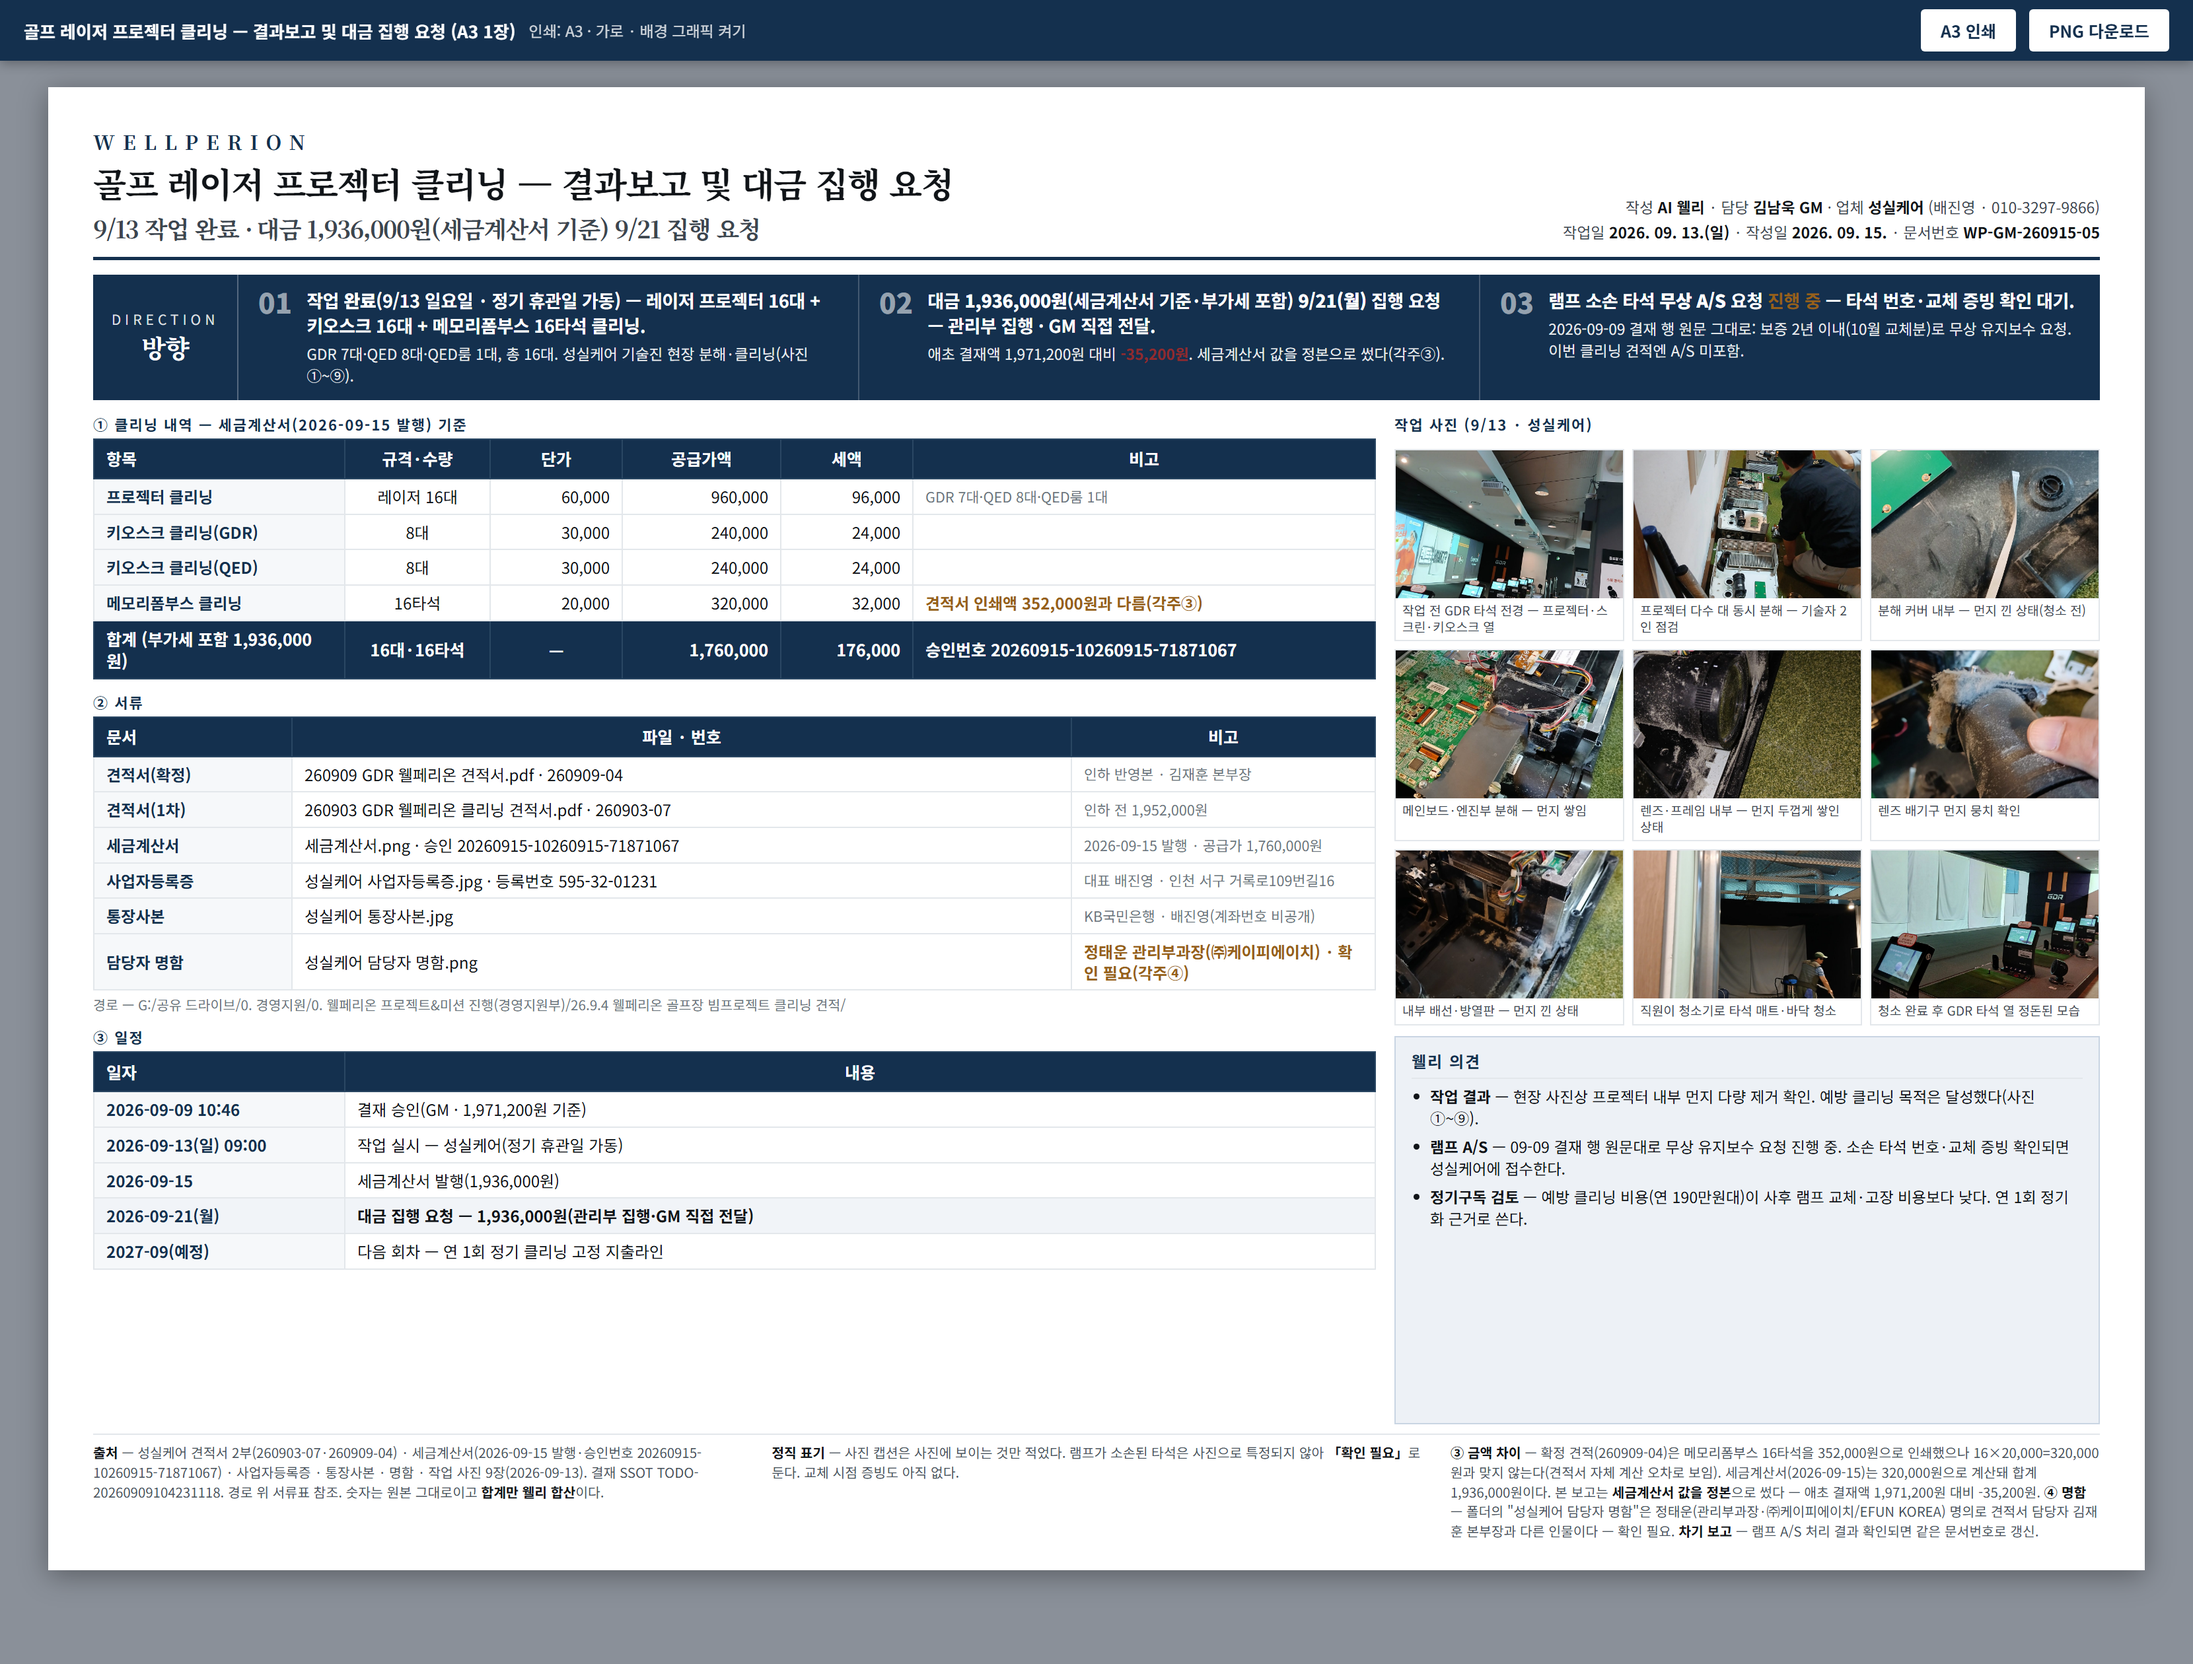
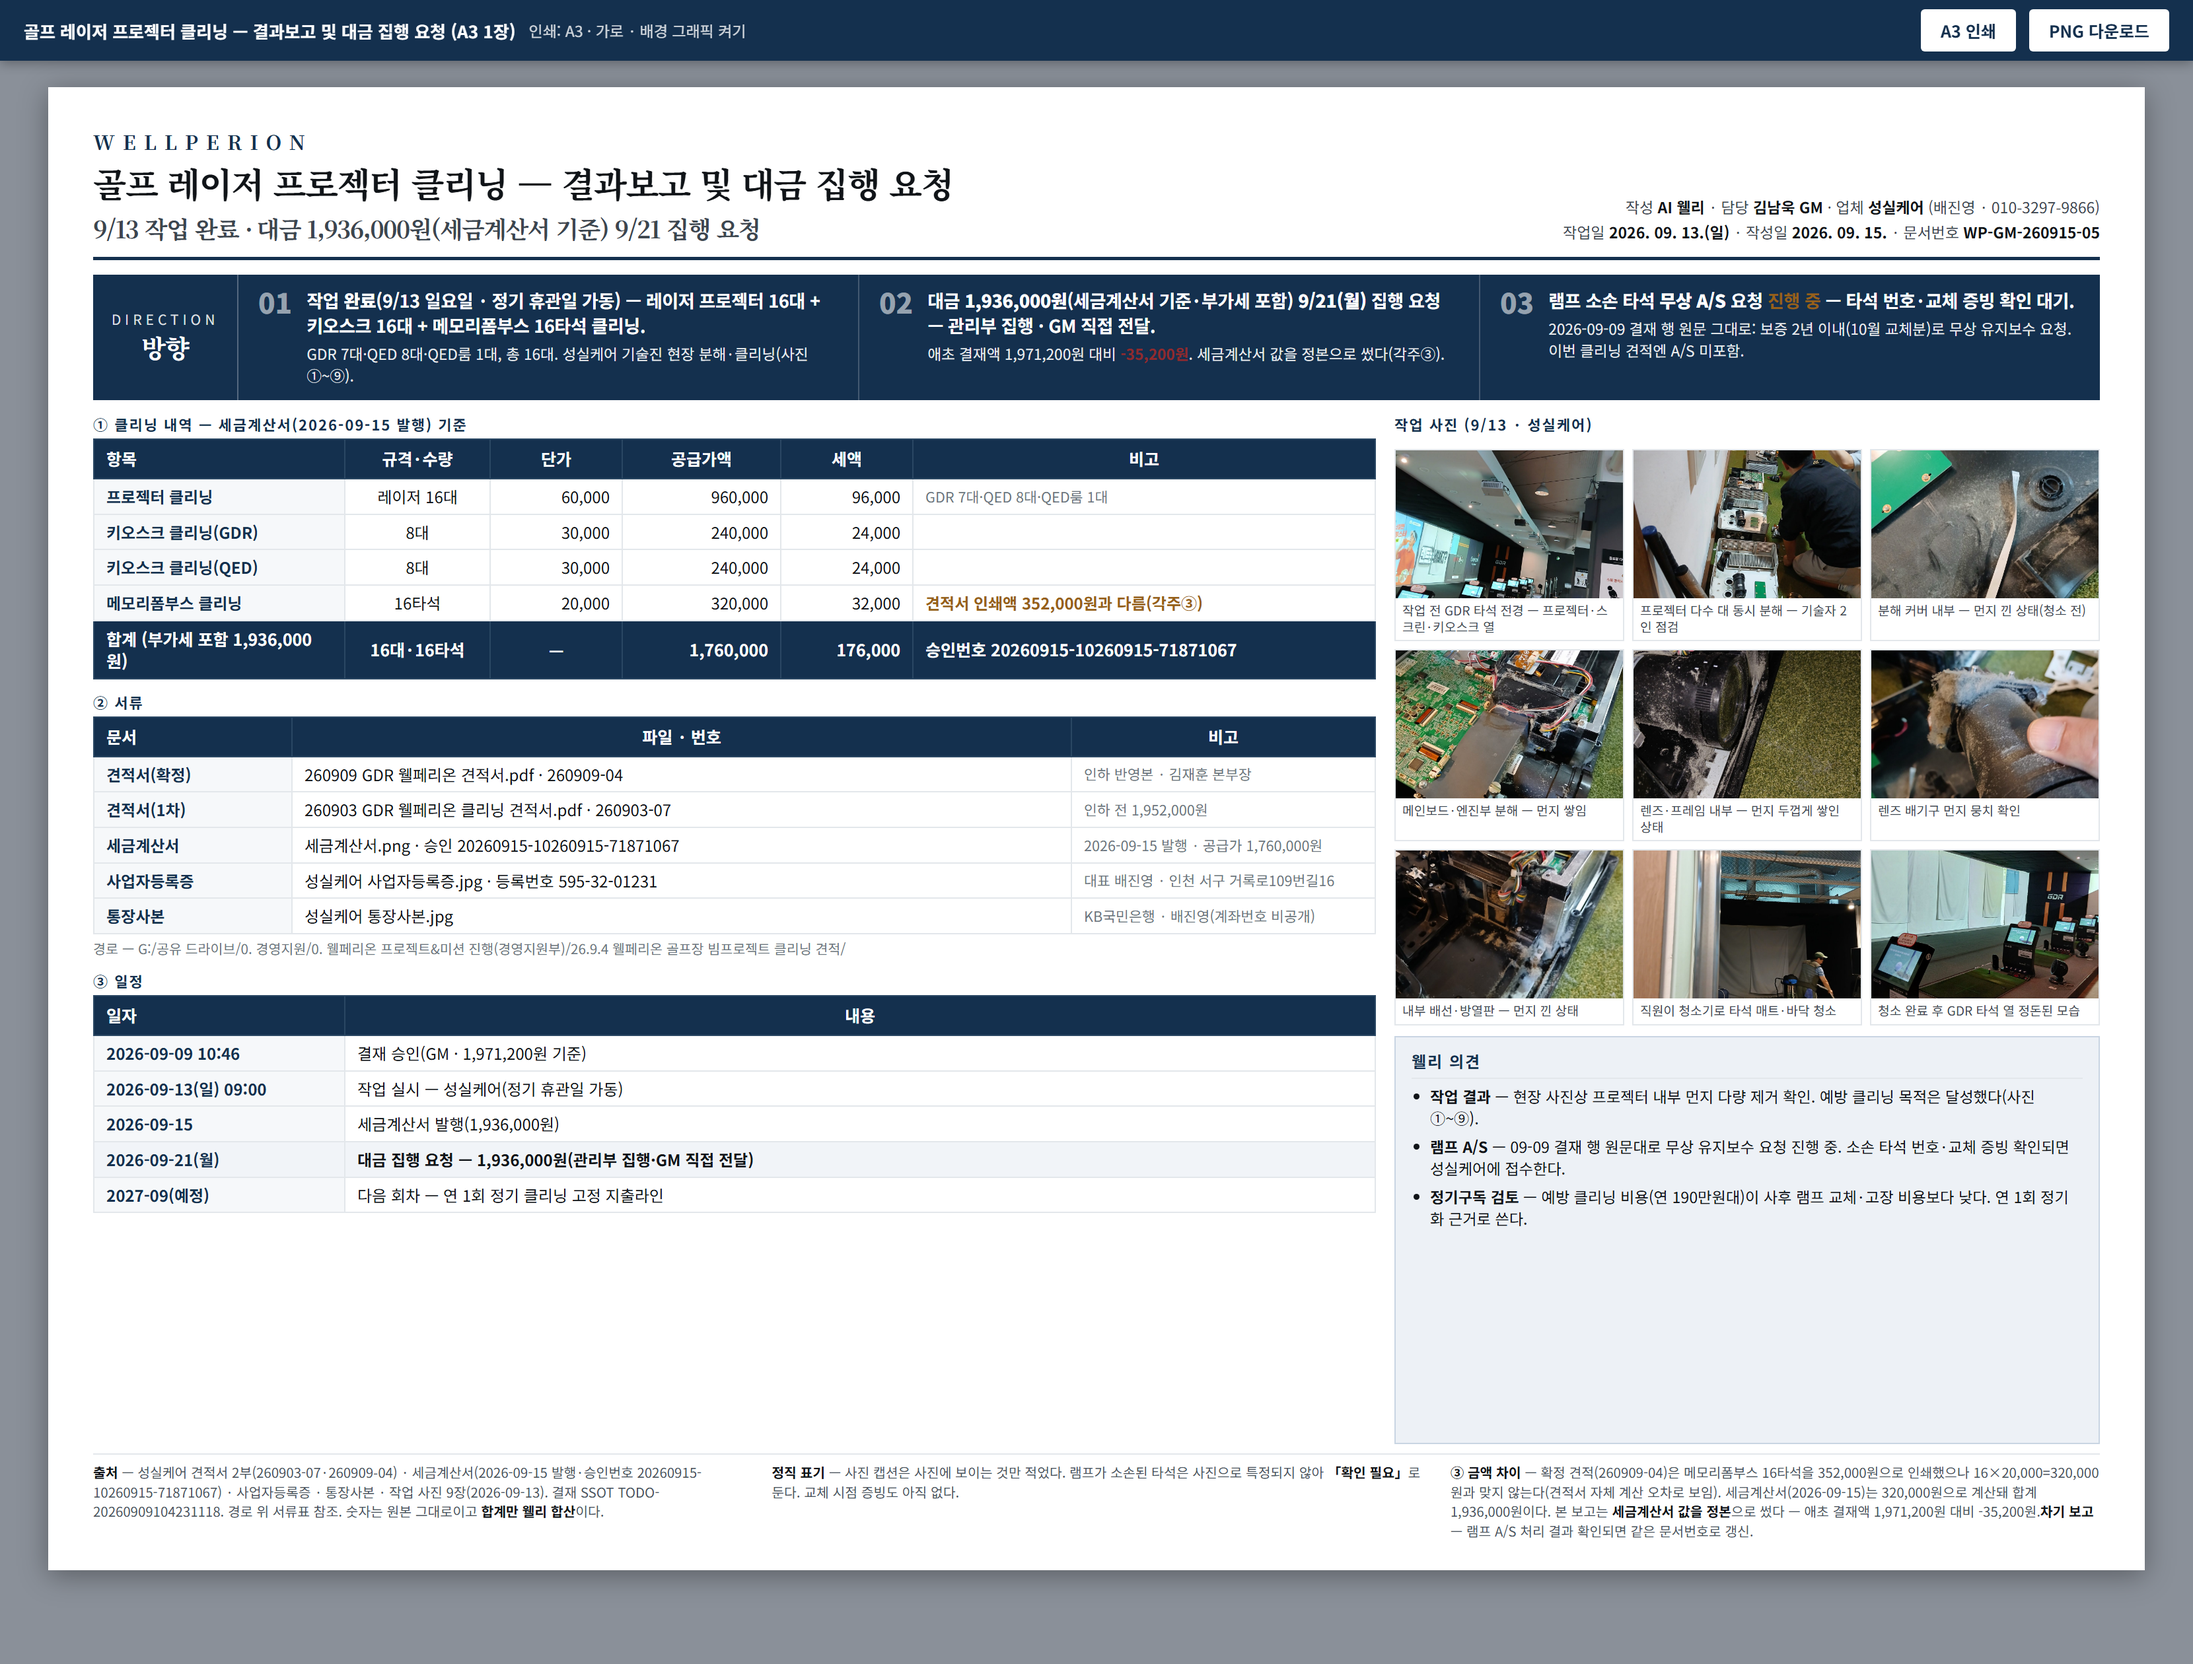
[웰리] 클리닝 결과보고 A3 — 명함 줄 제거 · 전사일정 9/21 집행액 1,936,000 정정 (GM 09-15)

Changed region(s): [[0.031, 0.5571, 0.6515, 0.7738], [0.3413, 0.8667, 0.9617, 0.9286], [0.031, 0.8667, 0.3102, 0.9286]]

diff --git a/3. 웰페리온 가이드/coo/chairman/260915_골프_빔프로젝터_클리닝_결과보고_A3.html b/3. 웰페리온 가이드/coo/chairman/260915_골프_빔프로젝터_클리닝_결과보고_A3.html
@@ -125,7 +125,6 @@
             <tr><td class="k">세금계산서</td><td>세금계산서.png · 승인 20260915-10260915-71871067</td><td class="dim">2026-09-15 발행 · 공급가 1,760,000원</td></tr>
             <tr><td class="k">사업자등록증</td><td>성실케어 사업자등록증.jpg · 등록번호 595-32-01231</td><td class="dim">대표 배진영 · 인천 서구 거록로109번길16</td></tr>
             <tr><td class="k">통장사본</td><td>성실케어 통장사본.jpg</td><td class="dim">KB국민은행 · 배진영(계좌번호 비공개)</td></tr>
-            <tr><td class="k">담당자 명함</td><td>성실케어 담당자 명함.png</td><td class="warn">정태운 관리부과장(㈜케이피에이치) · 확인 필요(각주④)</td></tr>
           </tbody>
         </table>
         <div class="dim" style="margin-top:3px;font-size:10.3px">경로 — G:/공유 드라이브/0. 경영지원/0. 웰페리온 프로젝트&amp;미션 진행(경영지원부)/26.9.4 웰페리온 골프장 빔프로젝트 클리닝 견적/</div>
@@ -170,9 +169,9 @@
   </div>
 
   <div class="foot">
-    <div><b>출처</b> — 성실케어 견적서 2부(260903-07·260909-04) · 세금계산서(2026-09-15 발행·승인번호 20260915-10260915-71871067) · 사업자등록증 · 통장사본 · 명함 · 작업 사진 9장(2026-09-13). 결재 SSOT TODO-20260909104231118. 경로 위 서류표 참조. 숫자는 원본 그대로이고 <b>합계만 웰리 합산</b>이다.</div>
+    <div><b>출처</b> — 성실케어 견적서 2부(260903-07·260909-04) · 세금계산서(2026-09-15 발행·승인번호 20260915-10260915-71871067) · 사업자등록증 · 통장사본 · 작업 사진 9장(2026-09-13). 결재 SSOT TODO-20260909104231118. 경로 위 서류표 참조. 숫자는 원본 그대로이고 <b>합계만 웰리 합산</b>이다.</div>
     <div><b>정직 표기</b> — 사진 캡션은 사진에 보이는 것만 적었다. 램프가 소손된 타석은 사진으로 특정되지 않아 <b>「확인 필요」</b>로 둔다. 교체 시점 증빙도 아직 없다.</div>
-    <div><b>③ 금액 차이</b> — 확정 견적(260909-04)은 메모리폼부스 16타석을 352,000원으로 인쇄했으나 16×20,000=320,000원과 맞지 않는다(견적서 자체 계산 오차로 보임). 세금계산서(2026-09-15)는 320,000원으로 계산돼 합계 1,936,000원이다. 본 보고는 <b>세금계산서 값을 정본</b>으로 썼다 — 애초 결재액 1,971,200원 대비 -35,200원. <b>④ 명함</b> — 폴더의 "성실케어 담당자 명함"은 정태운(관리부과장·㈜케이피에이치/EFUN KOREA) 명의로 견적서 담당자 김재훈 본부장과 다른 인물이다 — 확인 필요. <b>차기 보고</b> — 램프 A/S 처리 결과 확인되면 같은 문서번호로 갱신.</div>
+    <div><b>③ 금액 차이</b> — 확정 견적(260909-04)은 메모리폼부스 16타석을 352,000원으로 인쇄했으나 16×20,000=320,000원과 맞지 않는다(견적서 자체 계산 오차로 보임). 세금계산서(2026-09-15)는 320,000원으로 계산돼 합계 1,936,000원이다. 본 보고는 <b>세금계산서 값을 정본</b>으로 썼다 — 애초 결재액 1,971,200원 대비 -35,200원.<b>차기 보고</b> — 램프 A/S 처리 결과 확인되면 같은 문서번호로 갱신.</div>
   </div>
 </div>
 <script src="https://cdnjs.cloudflare.com/ajax/libs/html2canvas/1.4.1/html2canvas.min.js"></script>
